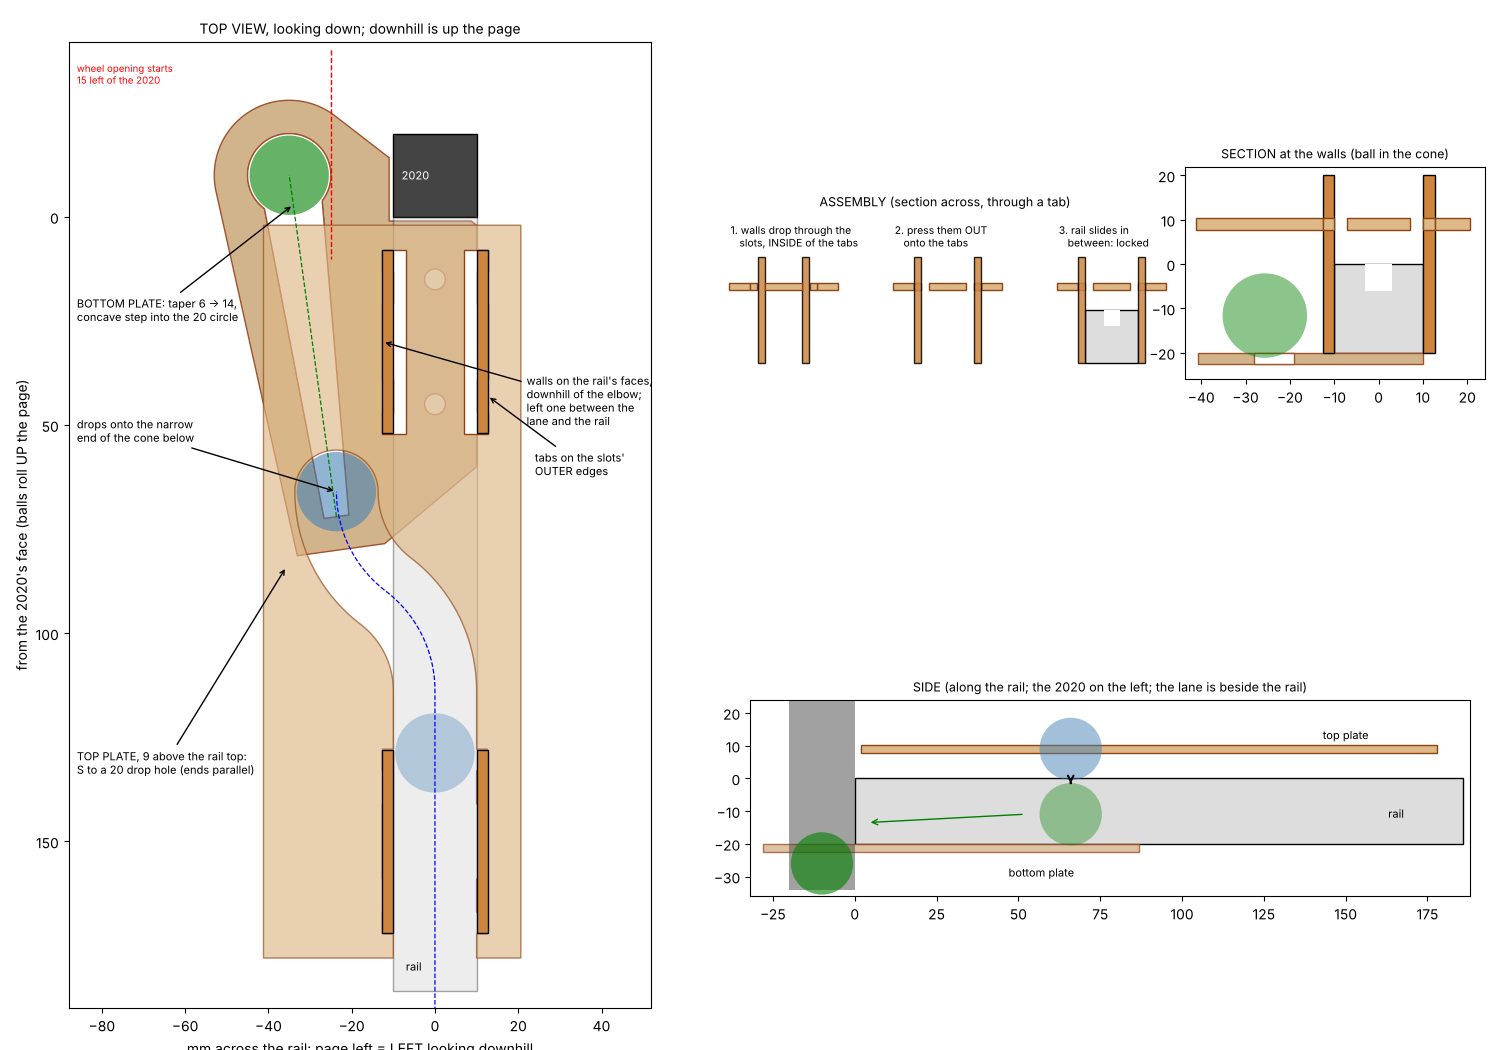
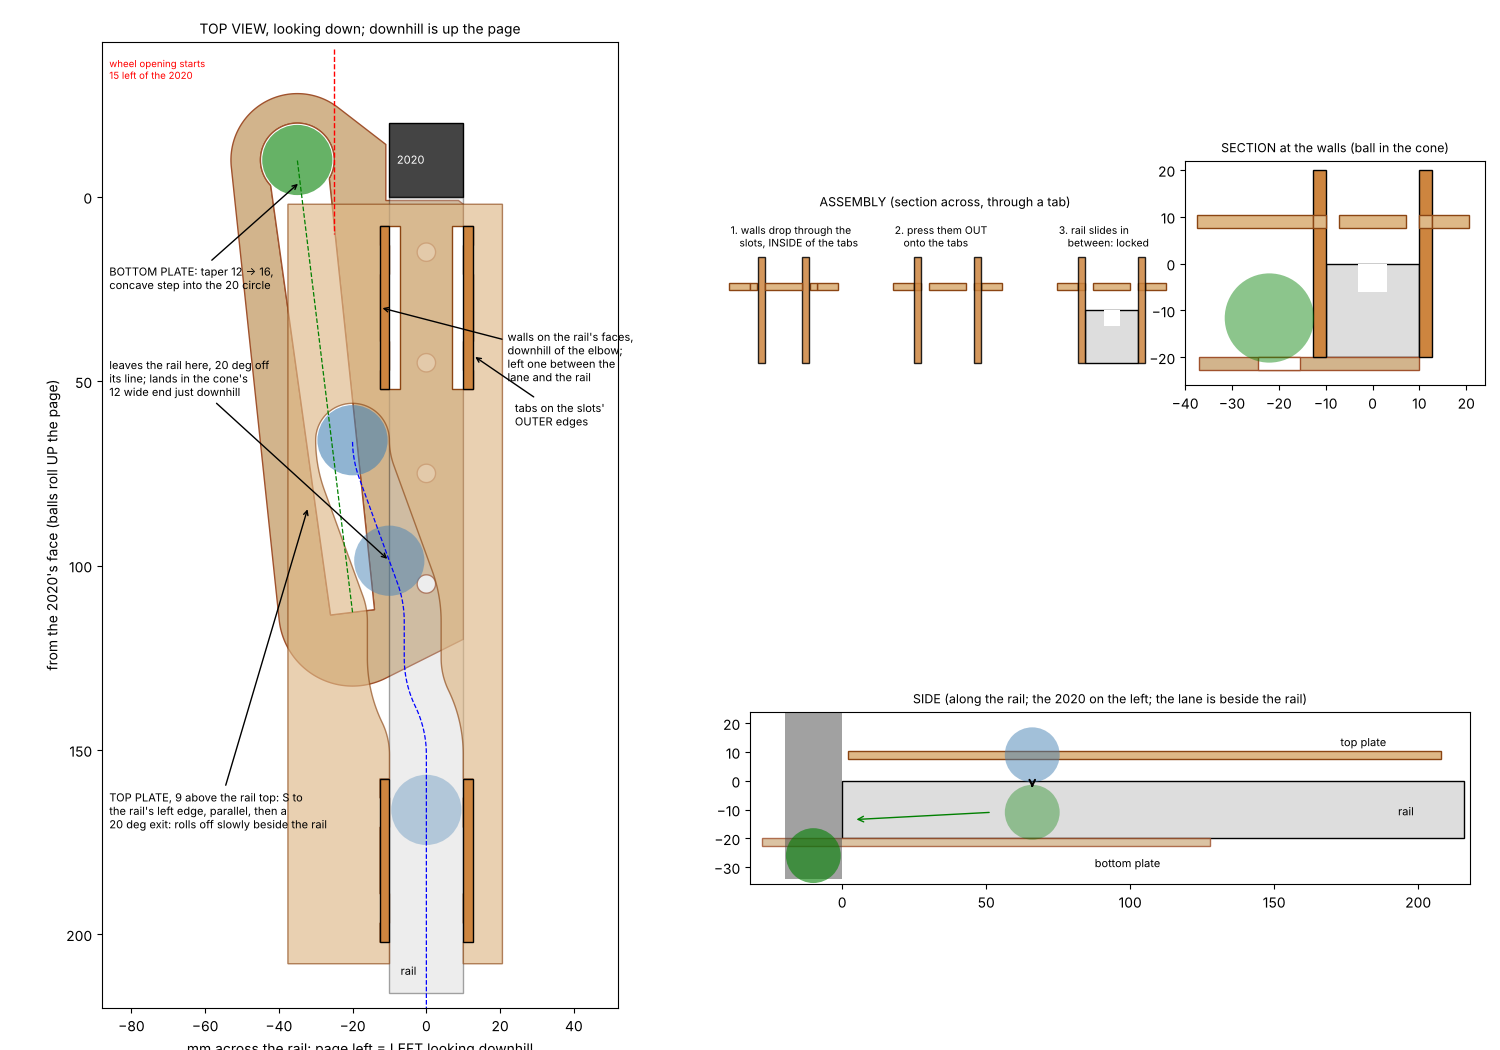
Feed drop: S to the rail's left edge, parallel, 20 deg exit so the ball rolls off slowly beside the rail; wider cone landing (12 -> 16) with extra wood; upper walls to 158..202
Claude-Session: https://claude.ai/code/session_01LQy87QnU21cWEAk5CN6jGY

diff --git a/marbles/clock/feed_drop_sketch.py b/marbles/clock/feed_drop_sketch.py
@@ -10,45 +10,76 @@ from shapely.geometry import LineString, Point, box, Polygon  # noqa: E402
 from shapely.ops import unary_union  # noqa: E402
 
 T = 2.63; BR = 19.05 / 2; ZC = math.sqrt(BR ** 2 - 3.1 ** 2); CL = 0.3
-XL = -(10 + T + BR + 1.5)                 # lane line: ball 1.5 clear of the left wall's outer face
-RC = -XL                                  # 90 deg elbow from the rail centre out to the lane line
+XL = -(10 + BR + 0.5)                     # landing line: the ball rolls off the rail's left edge and drops beside it
+X_EDGE = -6.0                             # the S brings the ball's centre here, still over the rail top (4 in from its edge)
 GAP_BEAM = 15.0                           # drop circle's right edge this far left of the 2020's left face (wheel opening)
 X_END, YEND = -(10 + GAP_BEAM + 10), -10.0 # drop circle centre: beside the 2020, level with its centre
 PITCH, M5 = 30.0, 5.0                     # rail bolt holes: 30 apart, 5.0 (as the keepers)
-YW0, YW1 = 8.0, 52.0                      # walls (both identical): M5 at 15 and 45, symmetric, so either is left or right
-Y_HOLE = YW1 + 14                         # drop hole centre (XL, Y_HOLE): its edge 4 above the walls' uphill ends
-S_R = 30.0                                # S: two arcs of this radius, rail centre -> lane line, ending parallel to the rail
-S_TH = math.degrees(math.acos(1 - (-XL / 2) / S_R))
-S_ALONG = S_R * math.sin(math.radians(S_TH))
-Y0 = Y_HOLE + 2 * S_ALONG                 # S starts here (heading downhill)
+YW0, YW1 = 8.0, 52.0                      # walls (all identical): M5 at 15 and 45, symmetric, so either is left or right
+Y_HOLE = YW1 + 14                         # top plate's end hole centre (XL, Y_HOLE): its edge 4 above the walls' uphill ends
+S_R = 30.0                                # S: two arcs, rail centre -> X_EDGE, ending parallel to the rail
+EXIT_A, EXIT_R = 20.0, 30.0               # then a shallow exit: arc into a 20 deg diagonal, diagonal, arc back to parallel
+PAR_L = 10.0                              # parallel run between the S and the exit
 WALL_H = 40.0                             # 20 on the rail's side + 20 above its top
 RAIL_M5 = [PITCH / 2 + PITCH * i for i in range(10)]
-W_TIP = 14.0                              # cone's wide end: still holds the ball (centre 6.46 up); the circle drops it
+W_START, W_TIP = 12.0, 16.0               # cone: 12 wide where the ball lands (catches it within +-6), 16 at the step into the 20 circle
+CONE_UP = 20.0                            # cone starts this far uphill of the landing
 TAB_W = 8.0
 
 
+def turtle(start, segs):
+    """points along a path from start heading downhill (-y); segs: ('line', L) or ('arc', R, deg), + deg = toward -x"""
+    x, y = start; h = math.radians(-90.0); pts = [(x, y)]
+    for sg in segs:
+        if sg[0] == "line":
+            x += sg[1] * math.cos(h); y += sg[1] * math.sin(h); pts.append((x, y))
+        else:
+            R, d = sg[1], math.radians(sg[2])
+            sgn = -1 if d > 0 else 1                          # toward -x while heading -y = clockwise
+            cx, cy = x + R * math.cos(h + sgn * math.pi / 2), y + R * math.sin(h + sgn * math.pi / 2)
+            a0 = math.atan2(y - cy, x - cx)
+            for i in range(1, 31):
+                a = a0 + sgn * abs(d) * i / 30
+                pts.append((cx + R * math.cos(a), cy + R * math.sin(a)))
+            x, y = pts[-1]; h += sgn * abs(d)
+    return pts
+
+
+def segments():
+    s_th = math.degrees(math.acos(1 - (-X_EDGE / 2) / S_R))
+    arc_lat = EXIT_R * (1 - math.cos(math.radians(EXIT_A)))
+    diag = (X_EDGE - XL - 2 * arc_lat) / math.sin(math.radians(EXIT_A))
+    return [("arc", S_R, s_th), ("arc", S_R, -s_th), ("line", PAR_L), ("arc", EXIT_R, EXIT_A), ("line", diag), ("arc", EXIT_R, -EXIT_A)]
+
+
 def geometry():
-    th = math.radians(S_TH)
-    a1 = [(-S_R + S_R * math.cos(th * i / 30), Y0 - S_R * math.sin(th * i / 30)) for i in range(31)]
-    a2 = [(XL + S_R - S_R * math.cos(th * (1 - i / 30)), Y_HOLE + S_R * math.sin(th * (1 - i / 30))) for i in range(1, 31)]
-    path = LineString([(0, Y0 + 200)] + a1 + a2)          # lead-in runs out through the plate's uphill edge
+    pts = turtle((0.0, 0.0), segments())
+    dx, dy = XL - pts[-1][0], Y_HOLE - pts[-1][1]
+    pts = [(x + dx, y + dy) for x, y in pts]                  # path ends at the end hole
+    y0 = pts[0][1]                                            # S starts here
+    path = LineString([(0, y0 + 200)] + pts)                  # lead-in runs out through the plate's uphill edge
+    # where the ball's centre crosses the rail edge (x -10): it leaves the rail there
+    cross = next(((x, y) for x, y in LineString(pts).segmentize(0.2).coords if x <= -10), pts[-1])
+    y_land = cross[1] - 6
     # cone: straight (no curve) from under the drop hole to the circle beside the 2020
-    y_c0 = Y_HOLE + 6
+    y_c0 = y_land + CONE_UP
     p0, p1 = (XL, y_c0), (X_END, YEND)
     L = math.dist(p0, p1); u = ((p1[0] - p0[0]) / L, (p1[1] - p0[1]) / L); n = (-u[1], u[0])
     m = math.sqrt(10 ** 2 - (W_TIP / 2) ** 2)
     pm = (p1[0] - u[0] * m, p1[1] - u[1] * m)
-    taper = Polygon([(p0[0] + n[0] * 3, p0[1] + n[1] * 3), (pm[0] + n[0] * W_TIP / 2, pm[1] + n[1] * W_TIP / 2),
-                     (pm[0] - n[0] * W_TIP / 2, pm[1] - n[1] * W_TIP / 2), (p0[0] - n[0] * 3, p0[1] - n[1] * 3)])
+    h0 = W_START / 2
+    taper = Polygon([(p0[0] + n[0] * h0, p0[1] + n[1] * h0), (pm[0] + n[0] * W_TIP / 2, pm[1] + n[1] * W_TIP / 2),
+                     (pm[0] - n[0] * W_TIP / 2, pm[1] - n[1] * W_TIP / 2), (p0[0] - n[0] * h0, p0[1] - n[1] * h0)])
     cone = unary_union([taper, Point(p1).buffer(10, 64)])
     y_meet = pm
     strip_end = max(y for y in RAIL_M5 if y <= y_c0) + 15
-    bot = unary_union([box(-10, 2, 10, strip_end), cone.buffer(8, join_style=2)]).convex_hull   # one piece: strip + cone surround
+    pad = Point(p0).buffer(W_START / 2 + 14, 48)             # extra wood round the landing end
+    bot = unary_union([box(-10, 2, 10, strip_end), cone.buffer(8, join_style=2), pad]).convex_hull   # one piece
     bot = bot.difference(box(-11, -40, 11, 1.0)).difference(cone)                                  # clear of the 2020 (1 all round)
     bot = bot.difference(unary_union([Point(0, y).buffer(M5 / 2, 48) for y in RAIL_M5 if y < strip_end - 10]))
     yw0, yw1 = YW0, YW1
     # second pair uphill of the S: the same wall, placed so its M5 land on the 30 grid with room above the S
-    up0 = min(y for y in RAIL_M5 if y - (15 - YW0) >= Y0 + 6) - (15 - YW0)
+    up0 = min(y for y in RAIL_M5 if y - (15 - YW0) >= y0 + 6) - (15 - YW0)
     walls = [(yw0, yw1), (up0, up0 + (yw1 - yw0))]
     slots, tabs = [], []
     for w0, w1 in walls:
@@ -64,7 +95,7 @@ def geometry():
     wall = box(0, 0, yw1 - yw0, WALL_H).difference(unary_union(
         [box(y - yw0 - 0.2, v_tab - T / 2 - 0.1, y - yw0 + TAB_W + 0.2, v_tab + T / 2 + 0.1) for y in tab_y] +
         [Point(y - yw0, 10).buffer(M5 / 2, 48) for y in RAIL_M5 if yw0 + 6 < y < yw1 - 6]))
-    return dict(path=path, cone=cone, bot=bot, plate=plate, wall=wall, yw=(yw0, yw1), walls=walls, yp=(yp0, yp1), y_meet=y_meet, y_c0=y_c0)
+    return dict(path=path, cone=cone, bot=bot, plate=plate, wall=wall, yw=(yw0, yw1), walls=walls, y0=y0, cross=cross, y_land=y_land, yp=(yp0, yp1), y_meet=y_meet, y_c0=y_c0)
 
 
 def emit(out_dir, wood="ply3"):
@@ -77,7 +108,7 @@ def emit(out_dir, wood="ply3"):
     g = geometry()
     out = []
     for name, geo, copies, note in (
-            ("feed_drop_top_s", g["plate"], "cut 1", f"top plate, {ZC:.1f} above the rail top in the walls' tabs: S (20 slot, 2 x r{S_R:g}) to a 20 drop hole, ending parallel"),
+            ("feed_drop_top_s", g["plate"], "cut 1", f"top plate, {ZC:.1f} above the rail top in the walls' tabs: S (20 slot) to the rail's left edge, parallel, 20 deg exit: the ball rolls off slowly beside the rail"),
             ("feed_drop_bottom", g["bot"], "cut 1", f"bottom plate under the rail: M5 every {PITCH:g} into its bottom slot; cone 6 -> {W_TIP:g}, step into the 20 circle"),
             ("feed_drop_wall", g["wall"], "cut 4 (all four walls are the same)", f"wall: {WALL_H:g} tall, 2 tab holes at {20 + ZC:.1f} up, M5 {PITCH:g} apart at 10 up")):
         if name != "feed_drop_wall":       # geometry frame is mirrored vs the top view (x left looking downhill = -x
@@ -123,12 +154,13 @@ def main():
         for w0, w1 in g["walls"]:
             a.add_patch(plt.Rectangle((x, w0), T, w1 - w0, fc="peru", ec="k"))
     a.plot(*path.xy, "b--", lw=.9); a.plot([XL, X_END], [y_c0, YEND], "g--", lw=.9)
-    a.add_patch(plt.Circle((0, Y0 + 15), BR, fc="steelblue", alpha=.35))
+    Y0 = g["y0"]
+    a.add_patch(plt.Circle((0, Y0 + 15), BR, fc="steelblue", alpha=.35)); a.add_patch(plt.Circle(g["cross"], BR, fc="steelblue", alpha=.5))
     a.add_patch(plt.Circle((XL, Y_HOLE), BR, fc="steelblue", alpha=.6)); a.add_patch(plt.Circle((X_END, YEND), BR, fc="green", alpha=.6))
     A = dict(arrowprops=dict(arrowstyle="->"), fontsize=8)
-    a.annotate("TOP PLATE, 9 above the rail top:\nS to a 20 drop hole (ends parallel)", (XL - 12, Y_HOLE + 18), (-86, Y0 + 20), **A)
-    a.annotate("drops onto the narrow\nend of the cone below", (XL, Y_HOLE), (-86, Y_HOLE - 12), **A)
-    a.annotate(f"BOTTOM PLATE: taper 6 -> {W_TIP:g},\nconcave step into the 20 circle", y_meet, (-86, 25), **A)
+    a.annotate("TOP PLATE, 9 above the rail top: S to\nthe rail's left edge, parallel, then a\n20 deg exit: rolls off slowly beside the rail", (XL - 12, Y_HOLE + 18), (-86, Y0 + 20), **A)
+    a.annotate("leaves the rail here, 20 deg off\nits line; lands in the cone's\n12 wide end just downhill", g["cross"], (-86, Y_HOLE - 12), **A)
+    a.annotate(f"BOTTOM PLATE: taper {W_START:g} -> {W_TIP:g},\nconcave step into the 20 circle", y_meet, (-86, 25), **A)
     a.annotate("walls on the rail's faces,\ndownhill of the elbow;\nleft one between the\nlane and the rail", (-10 - T, (yw0 + yw1) / 2), (22, (yw0 + yw1) / 2 + 20), **A)
     a.annotate("tabs on the slots'\nOUTER edges", (10 + T, yw1 - 9), (24, yw1 + 10), **A)
     a.set_xlim(-88, 52); a.set_ylim(-42, yp1 + 12); a.invert_yaxis(); a.set_aspect("equal")
@@ -170,10 +202,10 @@ def main():
     s.set_title("SIDE (along the rail; the 2020 on the left; the lane is beside the rail)", fontsize=9)
     out = Path(__file__).resolve().parent.parent / "views" / "feed_drop_v5.png"
     plt.savefig(out, dpi=100)
-    # where the ball's centre crosses the rail edge (x -10): first arc if 10 < half the offset
-    t = math.degrees(math.acos(1 - 10 / S_R)) if 10 <= -XL / 2 else S_TH
-    print(f"{out.name}: lane x {XL:.2f}; S two r{S_R:g} arcs of {S_TH:.1f} deg, y {Y0:.1f} -> hole at {Y_HOLE:g}; cone 6 at {y_c0:g} -> {W_TIP:g} at "
-          f"({y_meet[0]:.1f}, {y_meet[1]:.1f}), circle centre ({X_END:g}, {YEND:g}); walls {g["walls"]}; ball centre crosses the rail edge heading {t:.1f} deg off the rail line")
+    sg = segments()
+    print(f"{out.name}: S two r{S_R:g} arcs of {sg[0][2]:.1f} deg to x {X_EDGE:g}, from y {Y0:.1f}; parallel {PAR_L:g}; exit {EXIT_A:g} deg "
+          f"(diagonal {sg[4][1]:.1f}) to the end hole at ({XL:g}, {Y_HOLE:g}); ball leaves the rail at y {g['cross'][1]:.1f} heading "
+          f"{EXIT_A:g} deg off the rail line; cone {W_START:g} at y {y_c0:.1f} -> {W_TIP:g}, step into the 20 circle at ({X_END:g}, {YEND:g}); walls {g['walls']}")
 
 
 if __name__ == "__main__":

diff --git a/marbles/clock/NOTES.md b/marbles/clock/NOTES.md
@@ -557,3 +557,8 @@ from the 2020 = 30 apart), bottom plate under the rail (M5 at 15/45 into its bot
 6 -> 14 then a concave step into the 20 circle beside the 2020, right edge 15 from its left face). Plates are cut so
 that face-up they match `views/feed_drop_v5.png` (2020 end at the file's bottom edge). Open: the ball leaves the rail
 mid-elbow (where its centre crosses the rail edge), about 13.7 short of the cone line; test before trusting it.
+- 2026-11-20 rev: every elbow/S that carries the ball out past the rail edge throws it (it falls as its centre crosses
+  the edge, still turning hard). Now (option 2): the S brings the ball to x -6 (still on the rail), runs parallel, then
+  a 20 deg exit rolls it off beside the rail (lands on the 20.0-left line, touching the rail's side). Cone: 12 wide where
+  it lands (catches +-6), 16 at the concave step into the 20 circle; extra wood round the landing end. Upper walls moved
+  to 158..202 (M5 165/195). Walls and bolt pitch unchanged.
